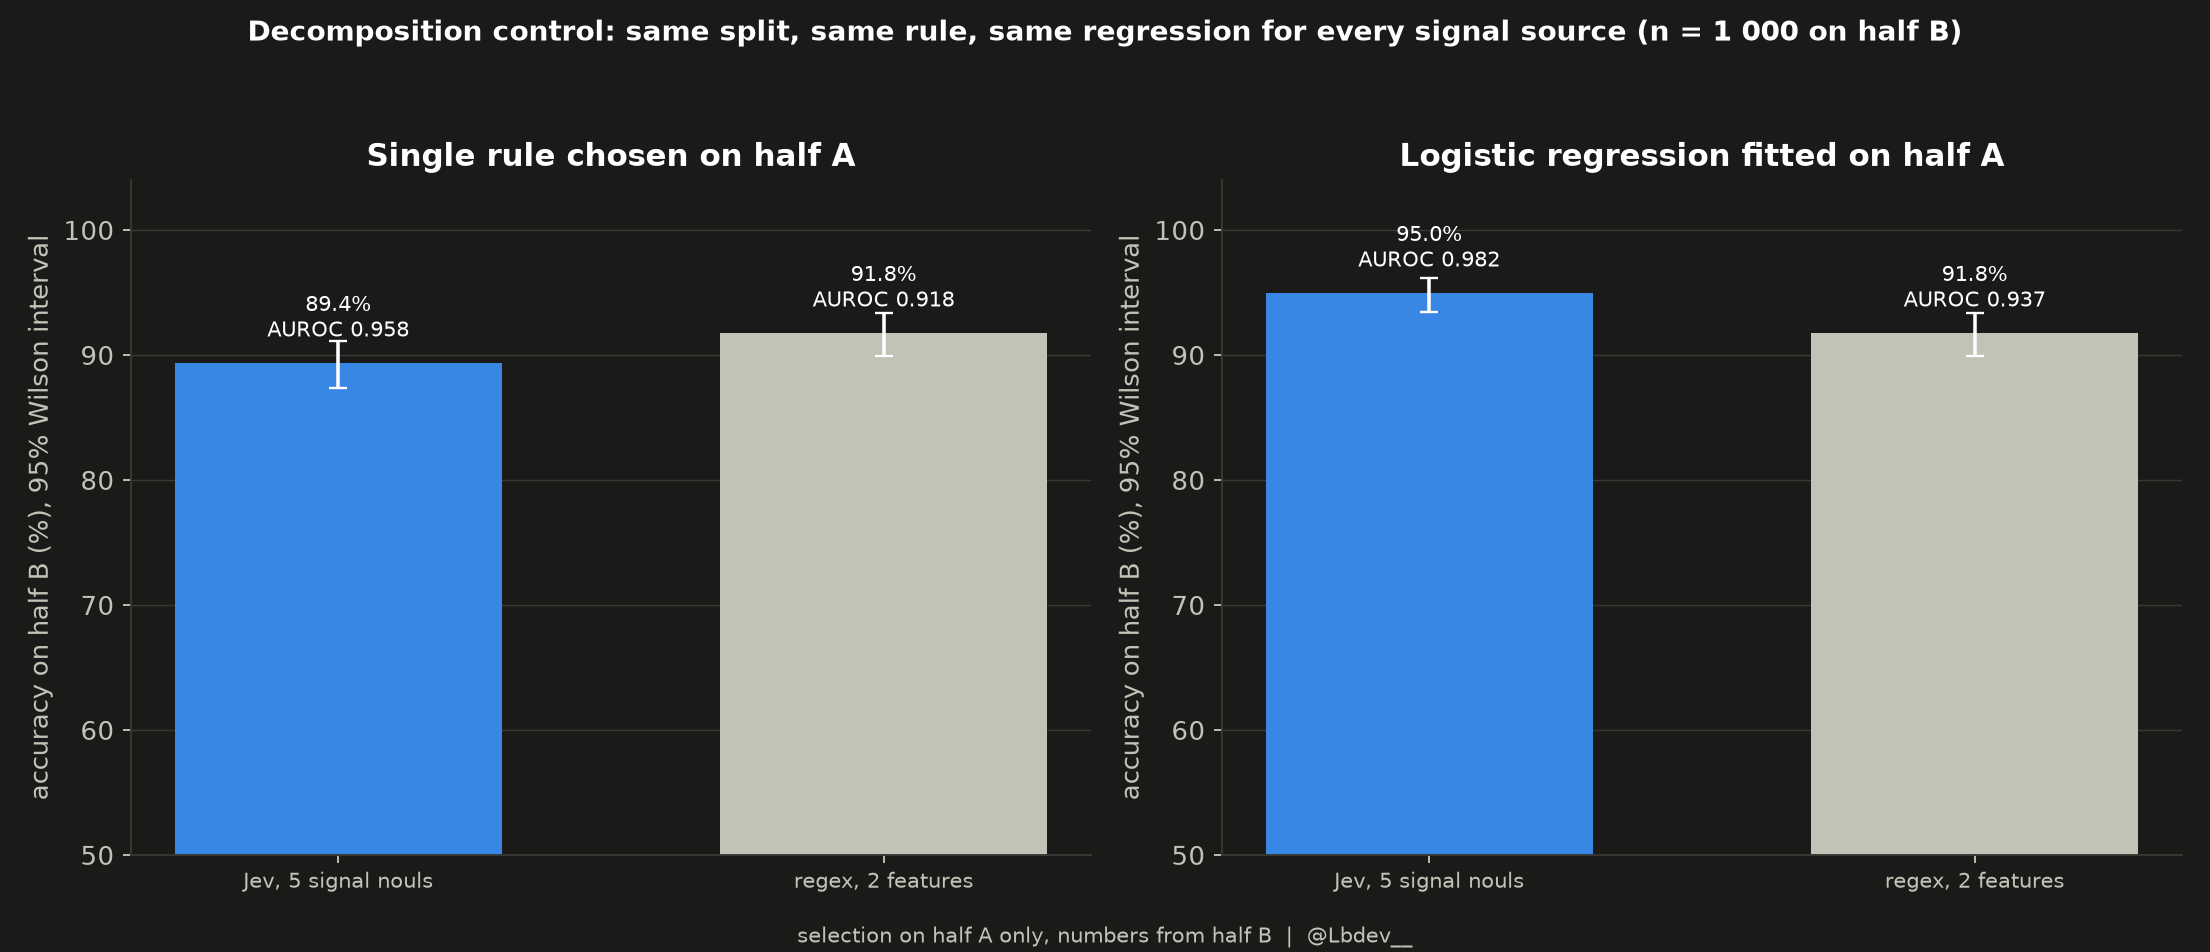
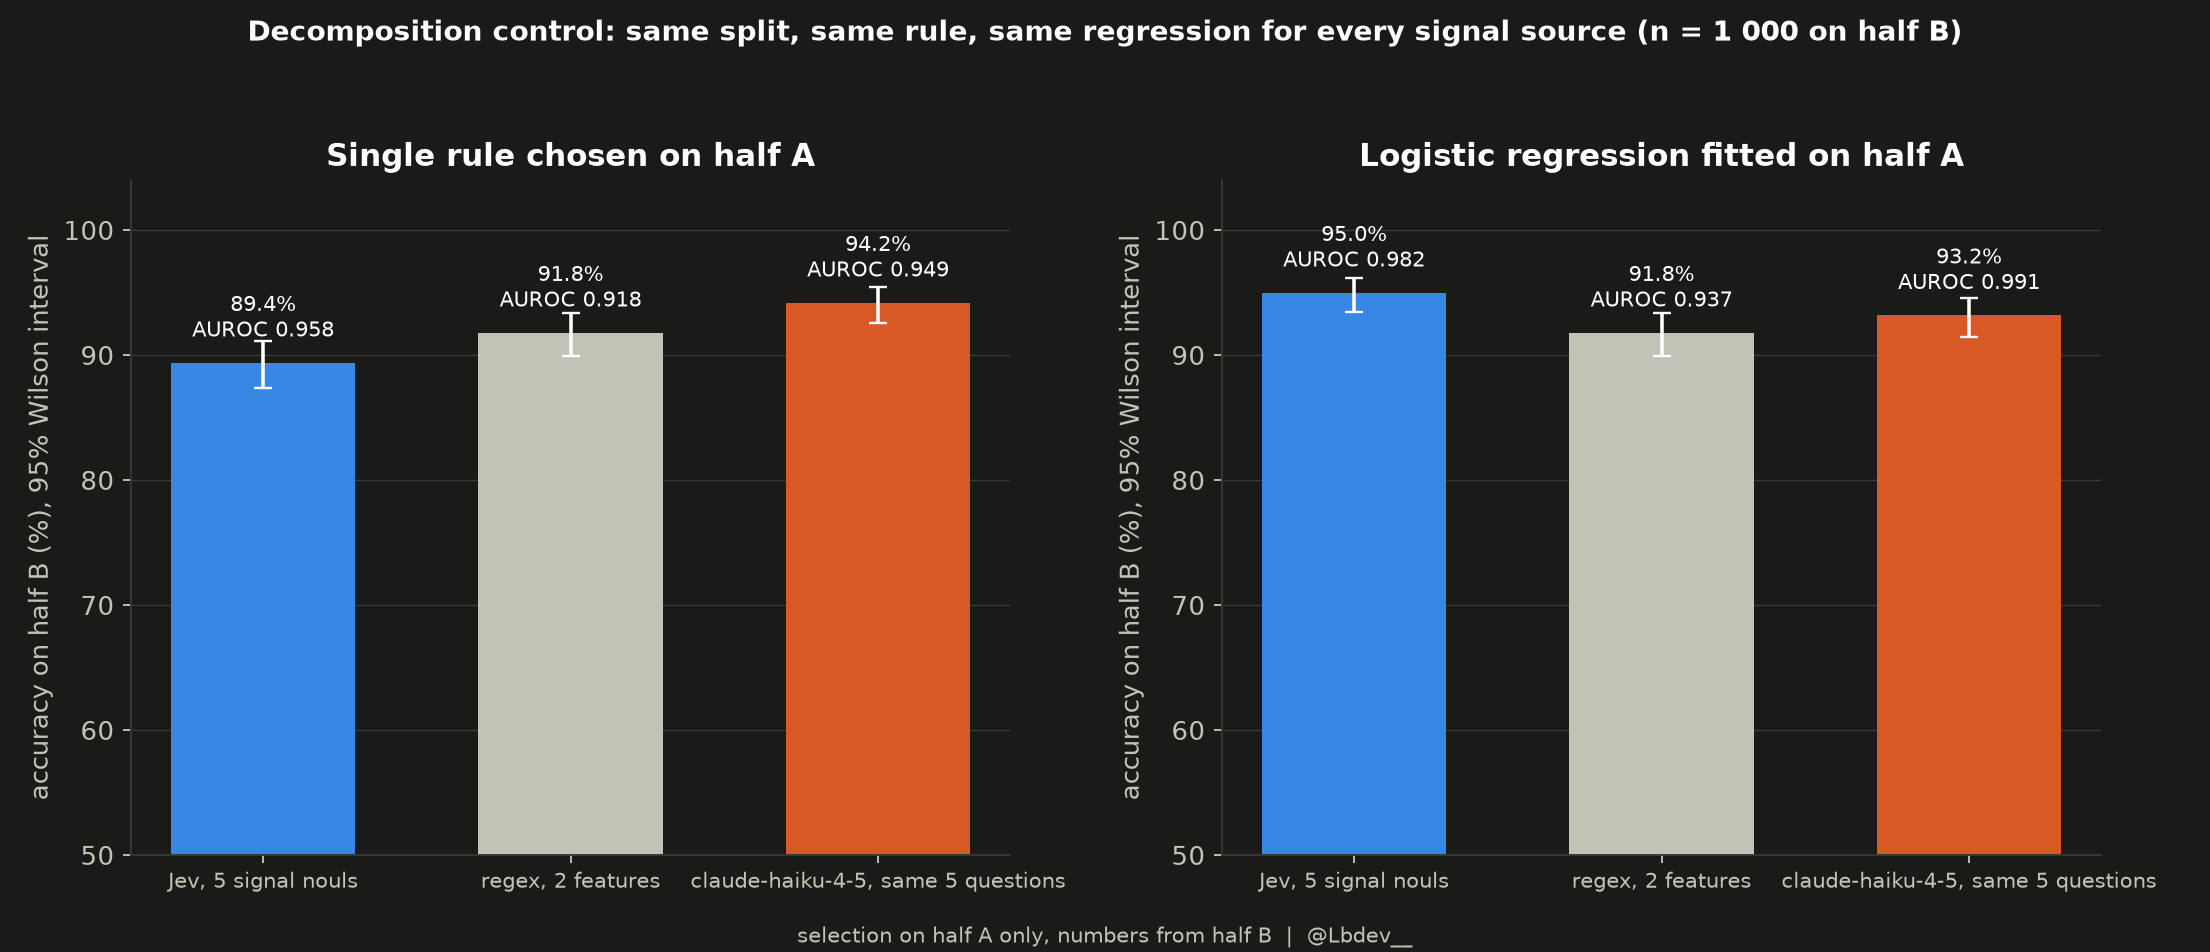
results(controls): Claude Haiku 4.5 asked the same five signal questions, split evaluation and paired tests

diff --git a/results/report.md b/results/report.md
@@ -1,6 +1,6 @@
 # Jev vs LLM on PhishNChips v5.2
 
-Generated 2026-09-17T08:28:22.546808+00:00. Dataset: 2000 emails (1 000 phishing, 1 000 legitimate). Jev model served behind `jev-latest`: jev-1.13.0. Jev answered 2000 emails, 0 API errors out of 2000 calls.
+Generated 2026-09-17T09:19:33.135142+00:00. Dataset: 2000 emails (1 000 phishing, 1 000 legitimate). Jev model served behind `jev-latest`: jev-1.13.0. Jev answered 2000 emails, 0 API errors out of 2000 calls.
 claude-haiku-4-5 answered 2000 emails with a valid JSON, 0 format errors and 0 API errors out of 2000 calls.
 
 ## Headline comparison
@@ -12,7 +12,7 @@ claude-haiku-4-5 answered 2000 emails with a valid JSON, 0 format errors and 0 A
 | False positive rate | 18.0% [15.7%, 20.5%] | 13.8% [11.8%, 16.1%] |
 | Precision | 70.6% | 84.7% |
 | F1 | 53.6% [50.5%, 56.6%] | 80.3% [78.3%, 82.2%] |
-| AUROC | 0.689 [0.667, 0.711] | 0.837 [0.821, 0.853] |
+| AUROC | 0.689 [0.667, 0.711] | 0.837 [0.820, 0.853] |
 | ECE (10 bins, lower is better) | 0.154 [0.137, 0.176] | 0.097 [0.081, 0.115] |
 | Brier score (lower is better) | 0.252 | 0.163 |
 | Latency p50 / p95 (from France) | 239 ms / 331 ms | 687 ms / 980 ms |
@@ -130,18 +130,30 @@ Stratified split, seed 20260917: half A has 1000 emails (500 phishing), half B h
 |---|---|---|---|---|---|---|---|---|
 | Jev, five signal nouls | `sig_free_hosting` >= 0.70 | 89.4% [87.3%, 91.2%] | 86.4% / 7.6% | 0.958 [0.948, 0.969] | 95.0% [93.5%, 96.2%] | 97.0% / 7.0% | 0.982 [0.975, 0.989] | 0.024 |
 | heuristic, two regex features | `hosting_or_shortener` >= 0.50 | 91.8% [89.9%, 93.3%] | 83.8% / 0.2% | 0.918 [0.900, 0.934] | 91.8% [89.9%, 93.3%] | 83.8% / 0.2% | 0.937 [0.922, 0.952] | 0.006 |
-| claude-haiku-4-5, same five questions | not run | | | | | | | |
+| claude-haiku-4-5, same five questions | `sig_generic_sender` >= 0.08 | 94.2% [92.6%, 95.5%] | 88.8% / 0.4% | 0.949 [0.935, 0.962] | 93.2% [91.5%, 94.6%] | 91.8% / 5.4% | 0.991 [0.987, 0.994] | 0.031 |
 
 Paired comparisons on half B:
 - Jev single rule vs heuristic single rule: first alone correct on 19, second alone correct on 43, McNemar p = 0.0032 (n = 1000).
 - Jev logistic vs heuristic logistic: first alone correct on 66, second alone correct on 34, McNemar p = 0.0018 (n = 1000).
+- Jev single rule vs claude-haiku-4-5 single rule: first alone correct on 34, second alone correct on 82, McNemar p = 0.0000 (n = 1000).
+- Jev logistic vs claude-haiku-4-5 logistic: first alone correct on 51, second alone correct on 33, McNemar p = 0.0630 (n = 1000).
+- claude-haiku-4-5 logistic vs heuristic logistic: first alone correct on 65, second alone correct on 51, McNemar p = 0.2273 (n = 1000).
 
 Jev logistic weights fitted on A: bias -4.60, sig_domain_mismatch -6.20, sig_free_hosting +10.62, sig_lure +3.96, sig_urgency +1.33, sig_generic_sender +10.73. AUROC of each feature on A: sig_domain_mismatch 0.686, sig_free_hosting 0.960, sig_lure 0.843, sig_urgency 0.390, sig_generic_sender 0.941.
 heuristic logistic weights fitted on A: bias -2.29, hosting_or_shortener +7.16, etld1_mismatch +1.10. AUROC of each feature on A: hosting_or_shortener 0.915, etld1_mismatch 0.799.
+claude-haiku-4-5 logistic weights fitted on A: bias -5.34, sig_domain_mismatch -2.30, sig_free_hosting +1.20, sig_lure +6.85, sig_urgency +3.94, sig_generic_sender +13.15. AUROC of each feature on A: sig_domain_mismatch 0.923, sig_free_hosting 0.935, sig_lure 0.867, sig_urgency 0.802, sig_generic_sender 0.956.
 
 ### Control 3: the same five questions asked to the LLM
 
-Not run: the runner `run_llm_signals.py` is ready and smoke-tested, but the Anthropic and Google API keys were deleted by the repository owner after the main runs, so no file `llm_<model>_signals_pass1.jsonl` exists. Anyone with a key can run it (about 30 minutes and 2 dollars for Claude Haiku 4.5) and rerun `analyze.py`; the table above will then fill in and the paired tests will be computed.
+claude-haiku-4-5 received the five signal questions of `run_jev.py` word for word in one JSON call per email (`run_llm_signals.py`), temperature 0, no thinking. 2000 calls, 1 API errors, 0 format errors, 1999 answers wrapped in a code fence. Latency p50 1199 ms, p95 1537 ms. 616 input and 80 output tokens per email, $1.016 per 1 000 emails at list price. The split results are in the table above.
+
+| Signal | claude-haiku-4-5 mean on phishing | mean on legitimate | Jev mean on phishing | Jev mean on legitimate |
+|---|---|---|---|---|
+| sig_domain_mismatch | 0.825 | 0.213 | 0.752 | 0.375 |
+| sig_free_hosting | 0.829 | 0.153 | 0.868 | 0.174 |
+| sig_lure | 0.536 | 0.228 | 0.610 | 0.252 |
+| sig_urgency | 0.126 | 0.051 | 0.050 | 0.071 |
+| sig_generic_sender | 0.720 | 0.002 | 0.496 | 0.028 |
 
 ### Control 4: the verdict wordings that were not chosen
 

diff --git a/results/thread.md b/results/thread.md
@@ -26,7 +26,7 @@ le truc vraiment intéressant. dans le même appel j'ai posé 5 questions plus s
 
 **6.**
 
-attention au piège : une simple liste de raccourcisseurs et d'hébergeurs gratuits, sans aucune ia, fait déjà 91,8 % sur ce dataset. le meilleur signal jev seul fait moins bien, 89,4 %. c'est en combinant les 5 signaux par une régression, entraînée sur une moitié et mesurée sur l'autre, qu'on arrive à 95,0 %, auroc 0,98. jev est mauvais pour juger, utile pour observer, mais pas magique
+attention au piège : une simple liste de raccourcisseurs et d'hébergeurs gratuits, sans aucune ia, fait déjà 91,8 % sur ce dataset. le meilleur signal jev seul fait moins bien, 89,4 %. en combinant les 5 signaux par une régression entraînée sur une moitié et mesurée sur l'autre, on arrive à 95,0 %. et haiku, à qui j'ai posé exactement les 5 mêmes questions, fait 93,2 % de la même façon, écart non significatif. jev est mauvais pour juger, correct pour observer, pas magique
 
 **7.**
 
@@ -38,11 +38,11 @@ stabilité : j'ai tout repassé une deuxième fois. jev change d'avis sur 2,2 % 
 
 **9.**
 
-les limites, parce que sinon ça vaut rien : corps d'emails synthétiques (dataset phishnchips, avril 2026, urls réelles), un seul prompt par système, latence mesurée depuis la france vers des serveurs us, haiku sans thinking, et je n'ai pas testé haiku avec les mêmes 5 questions de signaux. le résumé publié du dataset a aussi des chiffres que je n'ai pas réussi à reproduire, tout est dans le rapport
+les limites, parce que sinon ça vaut rien : corps d'emails synthétiques (dataset phishnchips, avril 2026, urls réelles), un seul prompt par système, latence mesurée depuis la france vers des serveurs us, haiku sans thinking. et le résumé publié du dataset a des chiffres que je n'ai pas réussi à reproduire, tout est dans le rapport
 
 **10.**
 
-conclusion perso : jev en classifieur "tout-en-un", non. jev en capteur de signaux atomiques à 0,04 $ les 1 000 emails, combinés par ton code, oui, et c'est exactement ce que leur doc recommande. repo, rapport, code, tout est là : https://github.com/anisselbd/jev-phishing-bench
+conclusion perso : jev en classifieur "tout-en-un", non. jev en capteur de signaux atomiques, oui mais sans miracle : haiku fait des signaux aussi bons, pour 1 $ les 1 000 emails contre 0,04 $ et 5x plus lent. ce que tu achètes avec jev c'est le prix et la vitesse, pas l'intelligence. repo, rapport, code, tout est là : https://github.com/anisselbd/jev-phishing-bench
 
 ---
 

diff --git a/README.md b/README.md
@@ -42,13 +42,18 @@ emails, and no equivalent decomposition for the LLM. Three controls were added (
   signals reaches 95.0% [93.5%, 96.2%], AUROC 0.982, against 91.8% for the
   regression on the two regex features (p = 0.0018).
 - **Same questions to the LLM.** `run_llm_signals.py` asks Claude Haiku 4.5 the five signal questions word for word
-  in one JSON call, then the same rule and regression are applied on the same split. Not run: the API keys were
-  deleted after the main runs. The runner is smoke-tested; with a key the run takes about 30 minutes and 2 dollars,
-  and `analyze.py` fills the table automatically.
+  in one JSON call per email (2000 calls, 1 API error, 0 format errors, p50 1199 ms,
+  $1.02 per 1 000 emails against $0.04 for Jev), then the same rule and regression are applied on the same split.
+  On B, Haiku's best single signal (`sig_generic_sender` >= 0.08) reaches 94.2% [92.6%, 95.5%],
+  above Jev's single rule (p < 0.0001) and above the regex. Its regression reaches 93.2% [91.5%, 94.6%],
+  AUROC 0.991, against 95.0% and AUROC 0.982 for Jev's: the accuracy gap in Jev's favour is not
+  significant (McNemar p = 0.063) and the AUROC gap goes the other way.
 
-Outcome of the controls as they stand: Jev's best single signal does not beat a two-line regex on half B (89.4% vs
-91.8%, McNemar p = 0.003); the regression on Jev's five signals does (95.0% vs 91.8%, p = 0.002). Whether an LLM
-asked the same five questions would match that 95.0% is untested here.
+Outcome of the controls: Jev's best single signal beats neither the two-line regex (89.4% vs 91.8%, p = 0.003) nor
+Haiku asked the same question (89.4% vs 94.2%, p < 0.0001). The regression on Jev's five signals beats the regex
+(95.0% vs 91.8%, p = 0.002) but is statistically tied with the regression on Haiku's five signals (95.0% vs 93.2%,
+p = 0.063, and Haiku's AUROC is higher). What Jev keeps is the price of the decomposition: about 27 times cheaper and
+5 times faster than Haiku for signals of comparable quality, on a dataset that a regex already separates at 91.8%.
 
 
 ## Method in one paragraph
